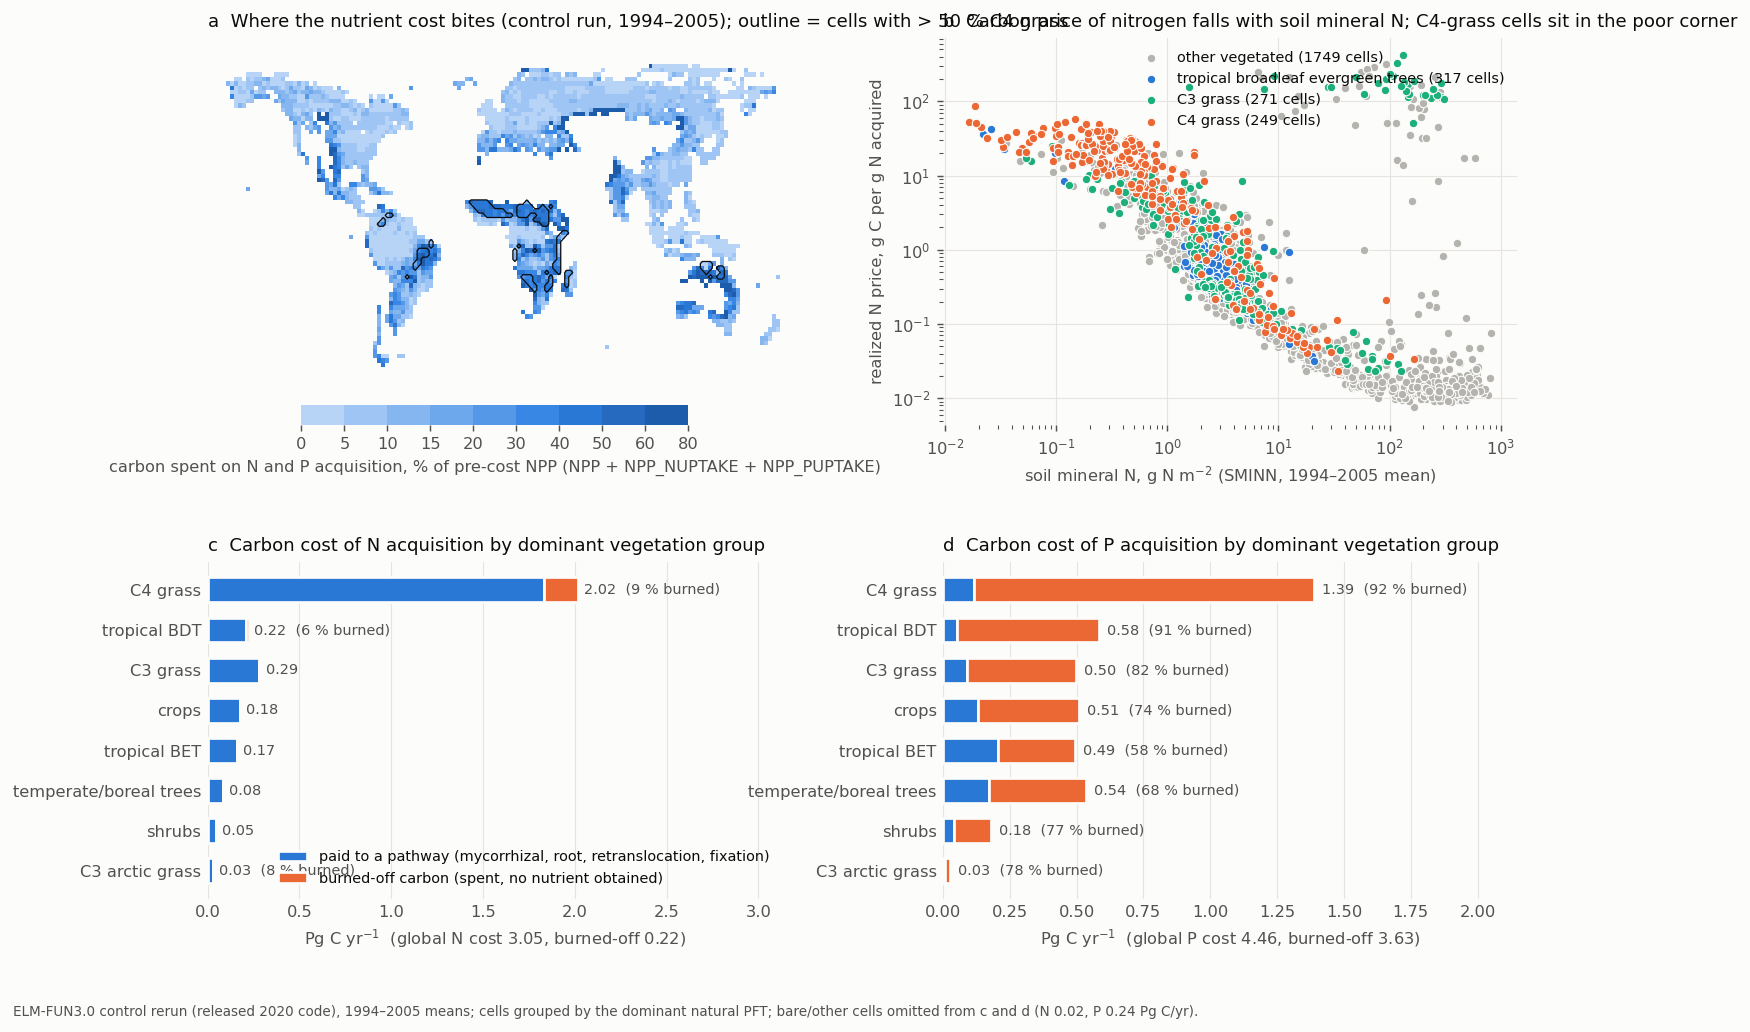
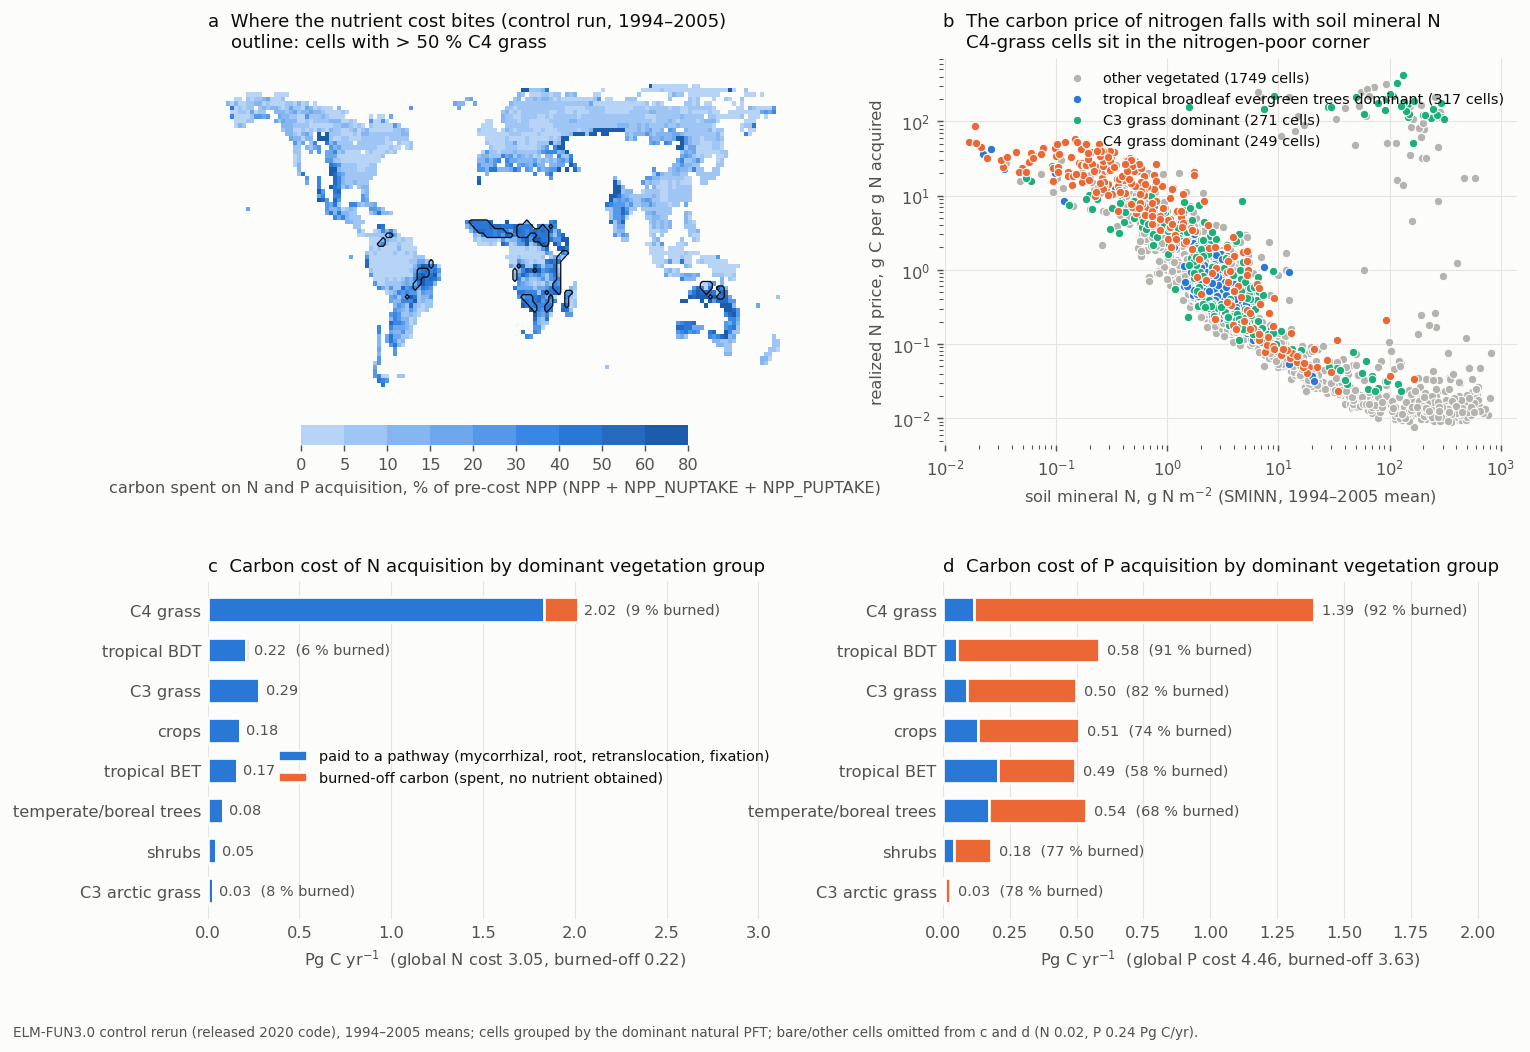
Budget-test analysis script and waiters; figure layout fix; report addenda

diff --git a/analysis/cbal/analyze_cbal.py b/analysis/cbal/analyze_cbal.py
@@ -1,0 +1,58 @@
+#!/usr/bin/env python3
+"""Carbon-budget closure test for one 2-year case (corrigendum, 2026-09-20).
+ usage: analyze_cbal.py <casename>
+ (1) global budget from the daily h1 stream: integral of (GPP - ER - fire - harvest/product - land-use - leaching - truncation) vs the change
+     of TOTCOLC (+TOTPRODC) between the first and last day; FUN cost terms listed separately;
+ (2) per-cell residual map statistics (which cells/PFTs carry the gap);
+ (3) the CBALREF lines from lnd.log (Amazon reference column, every step): size of the internal column balance error, and
+ (4) the number and size of 'column cbalance error' reports."""
+import sys, glob, re, numpy as np, netCDF4 as nc, os
+case=sys.argv[1]; R=f'/lustre/or-scratch24/scratch/braghiere/corrigendum_2022/runs/{case}/run/'
+h1=sorted(glob.glob(R+f'{case}.clm2.h1.*.nc')); print(f'== {case}: {len(h1)} daily-stream files'); 
+def cat(v):
+    out=[]
+    for f in h1:
+        d=nc.Dataset(f); 
+        if v not in d.variables: return None
+        x=np.ma.filled(d[v][:].astype(float),np.nan); out.append(np.where(np.abs(x)<1e30,x,np.nan))
+    return np.concatenate(out,axis=0)
+d0=nc.Dataset(h1[0]); A=np.nan_to_num(np.ma.filled(d0['area'][:].astype(float),0)*1e6*np.ma.filled(d0['landfrac'][:].astype(float),0)); lat=d0['lat'][:]; lon=d0['lon'][:]
+T=cat('GPP').shape[0]; dt=86400.; print(f'   days: {T}')
+G=lambda v: (lambda x: None if x is None else np.nansum(np.nan_to_num(x)*A,axis=(1,2)))(cat(v))   # global g C/s per day
+flux={v:G(v) for v in ('GPP','NPP','AR','MR','GR','HR','ER','NEE','NEP','NBP','COL_FIRE_CLOSS','PFT_FIRE_CLOSS','WOOD_HARVESTC','PRODUCT_CLOSS','DWT_CLOSS','LAND_USE_FLUX','SOM_C_LEACHED','COL_CTRUNC','PFT_CTRUNC','NPP_NUPTAKE','NPP_PUPTAKE','SOILC_CHANGE')}
+stock={v:G(v) for v in ('TOTCOLC','TOTECOSYSC','TOTPRODC','TOTSOMC','TOTVEGC','TOTLITC','CWDC','CPOOL','XSMRPOOL')}
+I=lambda v: np.nan if flux.get(v) is None else float(np.nansum(flux[v][1:-1])*dt*1e-15)+0.5*float((flux[v][0]+flux[v][-1])*dt*1e-15)   # Pg C over the span (trapezoid on daily means)
+span=(T-1)/365.
+print(f'   span {span:.2f} yr. Integrated fluxes (Pg C over the span; per year in brackets):')
+for v in flux:
+    if flux[v] is not None: print(f'      {v:16s} {I(v):9.3f}  ({I(v)/span:7.3f}/yr)')
+dS=lambda v: np.nan if stock.get(v) is None else float((stock[v][-1]-stock[v][0])*1e-15)
+print('   stock changes first->last day (Pg C):', {v:round(dS(v),3) for v in stock if stock[v] is not None})
+fire=I('COL_FIRE_CLOSS') if flux['COL_FIRE_CLOSS'] is not None else I('PFT_FIRE_CLOSS')
+out=I('ER')+fire+I('WOOD_HARVESTC')+I('PRODUCT_CLOSS')-I('SOM_C_LEACHED') if flux['WOOD_HARVESTC'] is not None else I('ER')+fire+I('PRODUCT_CLOSS')-I('SOM_C_LEACHED')
+dcol=dS('TOTCOLC')+ (dS('TOTPRODC') if not np.isnan(dS('TOTPRODC')) else 0.)
+print(f'   BALANCE (model-flux definition, as EcosystemBalanceCheckMod): GPP {I("GPP"):.3f} - [ER {I("ER"):.3f} + fire {fire:.3f} + harvest {I("WOOD_HARVESTC"):.3f} + product loss {I("PRODUCT_CLOSS"):.3f} - leached {I("SOM_C_LEACHED"):.3f}] = {I("GPP")-out:.3f} Pg C')
+print(f'           vs dTOTCOLC {dS("TOTCOLC"):.3f} (+ dTOTPRODC {dS("TOTPRODC"):.3f}) = {dcol:.3f} Pg C  ->  RESIDUAL {I("GPP")-out-dcol:+.3f} Pg C over {span:.2f} yr = {(I("GPP")-out-dcol)/span:+.3f} Pg C/yr')
+print(f'   for reference: NBP integral {I("NBP"):.3f}, NEE {I("NEE"):.3f}, NEP {I("NEP"):.3f}, DWT_CLOSS {I("DWT_CLOSS"):.3f}, LAND_USE_FLUX {I("LAND_USE_FLUX"):.3f}, truncation COL {I("COL_CTRUNC"):.4f} PFT {I("PFT_CTRUNC"):.4f}, FUN cost N {I("NPP_NUPTAKE"):.3f} P {I("NPP_PUPTAKE"):.3f}, AR-MR-GR {I("AR")-I("MR")-I("GR"):.3f}')
+# per-cell residual
+def cell(v): x=cat(v); return None if x is None else np.nansum(np.nan_to_num(x)[1:-1],axis=0)*dt+0.5*(np.nan_to_num(x)[0]+np.nan_to_num(x)[-1])*dt
+gpp=cell('GPP'); er=cell('ER'); fi=cell('COL_FIRE_CLOSS') if flux['COL_FIRE_CLOSS'] is not None else cell('PFT_FIRE_CLOSS'); pl=cell('PRODUCT_CLOSS'); le=cell('SOM_C_LEACHED'); hv=cell('WOOD_HARVESTC') if flux['WOOD_HARVESTC'] is not None else 0*gpp
+tc=cat('TOTCOLC'); dtc=np.nan_to_num(tc[-1])-np.nan_to_num(tc[0]); res=gpp-(er+fi+pl+hv-le)-dtc   # g C/m2 over span
+land=A>0; w=A[land]; r=res[land]
+print(f'   per-cell residual (g C/m2 over the span): area-weighted mean {np.sum(r*w)/w.sum():+.2f}, median {np.median(r):+.2f}, 5-95 % {np.percentile(r,5):+.1f} / {np.percentile(r,95):+.1f}; cells with |res| > 10: {np.sum(np.abs(r)>10)} of {land.sum()}; sum {np.sum(r*w)*1e-15:+.3f} Pg C')
+pct=np.ma.filled(d0['PCT_NAT_PFT'][:].astype(float),0) if 'PCT_NAT_PFT' in d0.variables else None
+if pct is not None:
+    dom=np.argmax(np.where(np.abs(pct)<1e30,pct,0),axis=0)
+    for p in range(17):
+        m=land&(dom==p)
+        if m.sum(): print(f'      dominant PFT {p:2d}: {m.sum():4d} cells, residual sum {np.sum(res[m]*A[m])*1e-15:+.3f} Pg C, mean {np.sum(res[m]*A[m])/A[m].sum():+.2f} g C/m2')
+# CBALREF lines and error reports from the land log
+logs=sorted(glob.glob(R+'lnd.log.*'),key=os.path.getmtime); txt=''
+for L in logs: txt+=open(L,errors='ignore').read()
+ref=np.array([[float(x) for x in l.split()[2:9]] for l in txt.splitlines() if l.startswith('CBALREF')]) if 'CBALREF' in txt else np.zeros((0,7))
+print(f'   CBALREF steps: {len(ref)}')
+if len(ref):
+    inn,outt,er_,ar_,fire_,dC,err=ref.T
+    print(f'      sums over the run (g C/m2): in {inn.sum():.1f}, out {outt.sum():.1f}, er {er_.sum():.1f}, ar {ar_.sum():.1f}, fire {fire_.sum():.2f}, dC {dC.sum():.1f}, err sum {err.sum():+.4f}, max|err| {np.abs(err).max():.2e}, steps |err|>1e-4: {np.sum(np.abs(err)>1e-4)}')
+nerr=len(re.findall(r'column cbalance error',txt)); vals=[float(x) for x in re.findall(r'errcb\s*=\s*([-+0-9.Ee]+)',txt)]
+print(f'   "column cbalance error" reports: {nerr}; largest |errcb| reported: {max(map(abs,vals)) if vals else 0:.3e}')

diff --git a/analysis/eval2022/fig_c4_burnedoff.py b/analysis/eval2022/fig_c4_burnedoff.py
@@ -20,15 +20,15 @@ lon2=np.where(lon>180,lon-360,lon); o=np.argsort(lon2); pm=ax.pcolormesh(lon2[o]
 c4=((dom==14)&(pct[14]>50)&(A>0)).astype(float); ax.contour(lon2[o],lat,c4[:,o],levels=[0.5],colors=T1,linewidths=0.7)
 cb=fig.colorbar(pm,ax=ax,orientation='horizontal',fraction=0.05,pad=0.08,ticks=bounds); cb.outline.set_visible(False); cb.set_label('carbon spent on N and P acquisition, % of pre-cost NPP (NPP + NPP_NUPTAKE + NPP_PUPTAKE)',color=T2)
 ax.set_xlim(-180,180); ax.set_ylim(-60,85); ax.set_xticks([]); ax.set_yticks([]); [s.set_visible(False) for s in ax.spines.values()]
-ax.set_title('a  Where the nutrient cost bites (control run, 1994–2005); outline = cells with > 50 % C4 grass',loc='left',fontsize=10,color=T1)
+ax.set_title('a  Where the nutrient cost bites (control run, 1994–2005)\n    outline: cells with > 50 % C4 grass',loc='left',fontsize=10,color=T1)
 # (b) scatter
 ax=fig.add_subplot(gs[0,1]); ok=(A>0)&(dom>0)&np.isfinite(price)&np.isfinite(sminn)&(sminn>0)&(price>0)
 groups=[('other vegetated',~np.isin(dom,[4,13,14]),GRAY),('tropical broadleaf evergreen trees',dom==4,BLUE),('C3 grass',dom==13,AQUA),('C4 grass',dom==14,ORANGE)]
 for name,m,col in groups:
-    mm=ok&m; ax.scatter(sminn[mm],price[mm],s=22,c=col,edgecolors=SURF,linewidths=0.6,label=f'{name} ({mm.sum()} cells)',zorder=3 if col!=GRAY else 2)
+    mm=ok&m; ax.scatter(sminn[mm],price[mm],s=22,c=col,edgecolors=SURF,linewidths=0.6,label=f'{name} dominant ({mm.sum()} cells)' if name!='other vegetated' else f'{name} ({mm.sum()} cells)',zorder=3 if col!=GRAY else 2)
 ax.set_xscale('log'); ax.set_yscale('log'); ax.set_xlabel('soil mineral N, g N m$^{-2}$ (SMINN, 1994–2005 mean)'); ax.set_ylabel('realized N price, g C per g N acquired')
 ax.grid(True,color=GRID,lw=0.6); [s.set_visible(False) for s in ax.spines.values()]; ax.legend(frameon=False,fontsize=8,loc='upper right')
-ax.set_title('b  Carbon price of nitrogen falls with soil mineral N; C4-grass cells sit in the poor corner',loc='left',fontsize=10,color=T1)
+ax.set_title('b  The carbon price of nitrogen falls with soil mineral N\n    C4-grass cells sit in the nitrogen-poor corner',loc='left',fontsize=10,color=T1)
 # (c,d) bars
 order=sorted([g for g in B if g!='bare/other'],key=lambda g: B[g]['Ncost']+B[g]['Pcost'],reverse=True)
 for k,(nut,tot,burn,title) in enumerate((('N','Ncost','Nburn','c  Carbon cost of N acquisition by dominant vegetation group'),('P','Pcost','Pburn','d  Carbon cost of P acquisition by dominant vegetation group'))):
@@ -40,6 +40,6 @@ for k,(nut,tot,burn,title) in enumerate((('N','Ncost','Nburn','c  Carbon cost of
     ax.set_yticks(y); ax.set_yticklabels(order); ax.set_xlabel(f'Pg C yr$^{{-1}}$  (global {nut} cost {sum(B[g][tot] for g in B):.2f}, burned-off {sum(B[g][burn] for g in B):.2f})'); ax.set_xlim(0,max(path+bo)*1.55)
     ax.grid(True,axis='x',color=GRID,lw=0.6); ax.set_axisbelow(True); [s.set_visible(False) for s in ax.spines.values()]; ax.tick_params(length=0)
     ax.set_title(title,loc='left',fontsize=10,color=T1)
-    if k==0: ax.legend(frameon=False,fontsize=8,loc='lower right')
+    if k==0: ax.legend(frameon=False,fontsize=8,loc='center right',bbox_to_anchor=(1.0,0.45))
 fig.text(0.01,0.005,'ELM-FUN3.0 control rerun (released 2020 code), 1994–2005 means; cells grouped by the dominant natural PFT; bare/other cells omitted from c and d (N 0.02, P 0.24 Pg C/yr).',fontsize=7.5,color=T2)
 out='/home/braghiere/ELM-FUN-2022-corrigendum/analysis/eval2022/fig_c4grass_burnedoff_control_1994-2005.png'; plt.savefig(out,dpi=130,bbox_inches='tight'); print('wrote',out)

diff --git a/analysis/eval2022/EVAL2022_REPORT.md b/analysis/eval2022/EVAL2022_REPORT.md
@@ -125,3 +125,14 @@ Reading: the corrections switch symbiotic fixation on at a physical price but it
 fixation, far below the 52–130 Tg N/yr of Davies-Barnard & Friedlingstein 2020) because mycorrhizal and root uptake cost 0.2–0.9 gC/gN in
 this model; everything else the paper reports moves by ≤ 5 %. The paper's conclusions about carbon costs, NPP reduction and N–P
 co-limitation stand; the statements about symbiotic fixation (Fig. 5a, the 35.3 Tg N/yr) do not — that flux was free-living fixation.
+
+## Addenda (2026-09-20)
+
+- **Number-by-number audit**: `paper_numbers_audit.md` (63 quantitative statements of the paper against the archive, the control and the
+  corrected run; 41 reproduced, 17 not reproduced by any product, 3 not verifiable here, 2 literature; 4 change with the corrections).
+- **C4-grass dominance and burned-off carbon**: `C4_GRASS_DOMINANCE.md` and `fig_c4grass_burnedoff_control_1994-2005.png`. The total cost
+  variables `NPP_NUPTAKE`/`NPP_PUPTAKE` include carbon spent without acquiring any nutrient (`burned_off_carbon` in CNFUNMod): 2.9–3.6 of
+  the 4.4–4.9 Pg C/yr P cost. The paper's 1.6 Pg C/yr is the pathway sum. C4 grass carries 66 % of the N cost because its soils hold
+  1.9 g N/m2 of mineral N, not because of a parameter or code tier.
+- **ILAMB, all five products** (`ilamb/ILAMB_vs_paper_fig2.md`, third run): control and corrected equal the archived FUN3.0 within 0.003.
+- **Carbon-budget tests** (`runs/srcmods_cbal`, jobs 5693293/5693294): pending; results will be appended here.
